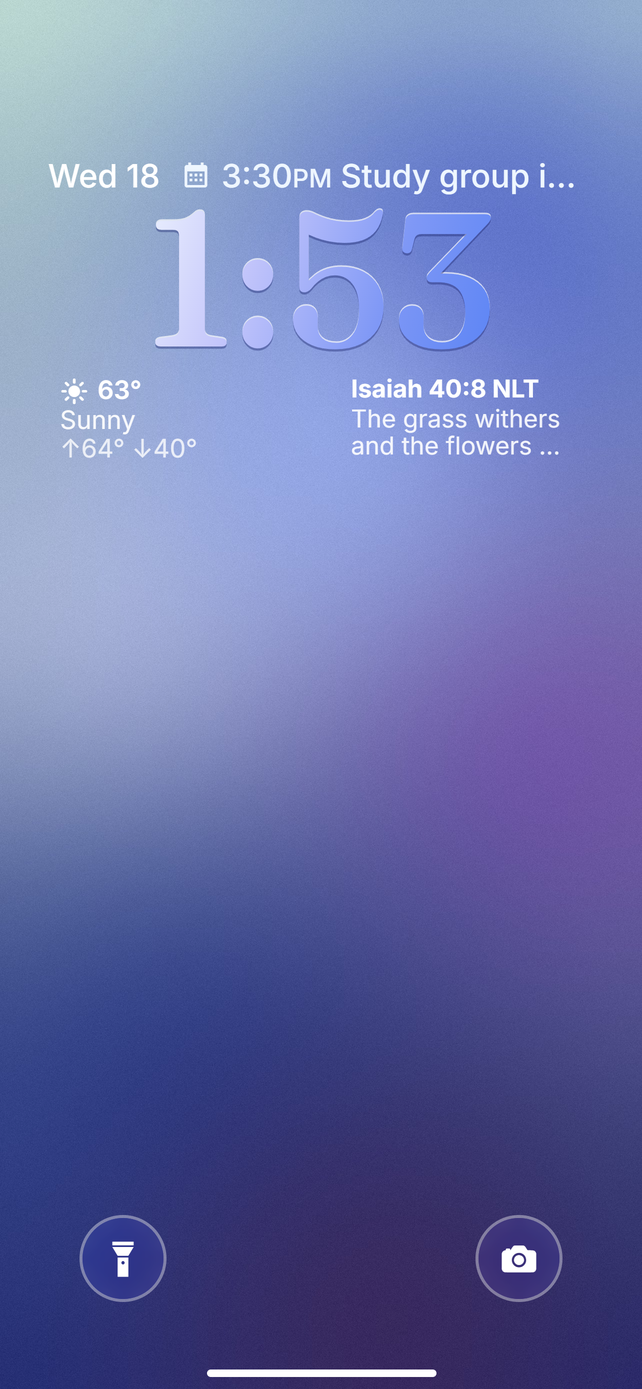
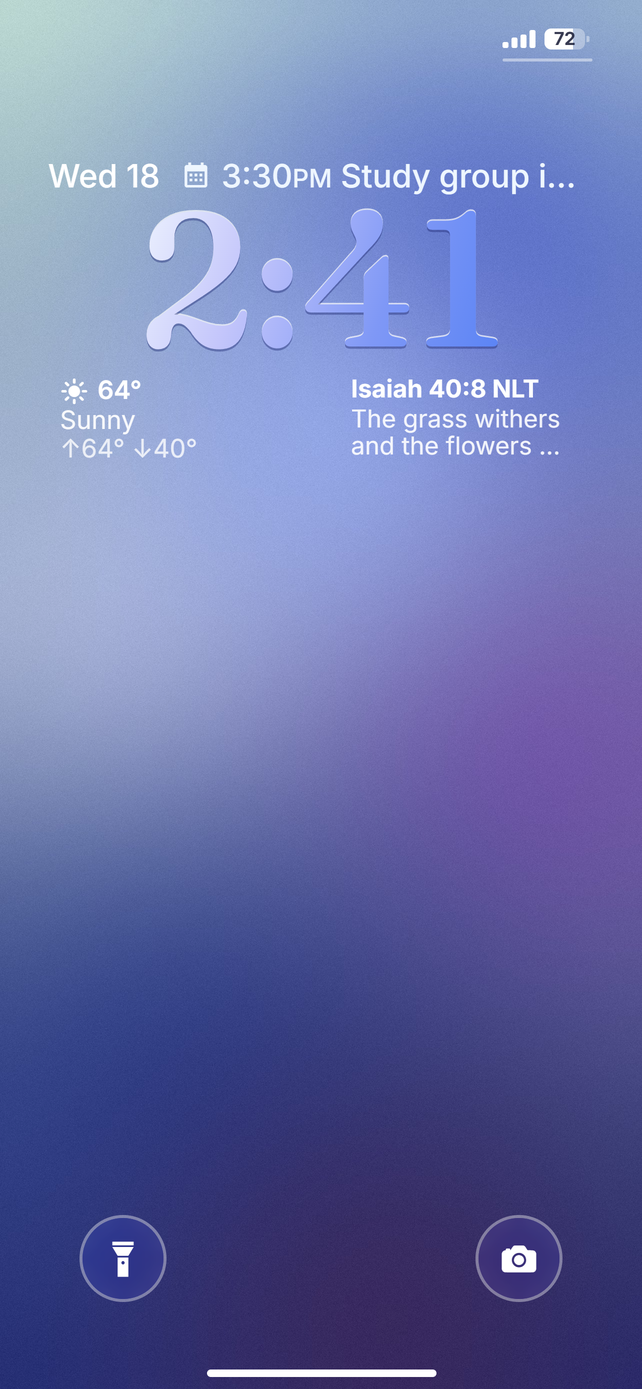
Add a lock screen status bar with live battery and Wi-Fi

Changed region(s): [[0.2181, 0.1238, 0.7788, 0.2786], [0.7788, 0.0, 0.9034, 0.0619]]

diff --git a/src/components/LockStatusBar.tsx b/src/components/LockStatusBar.tsx
@@ -1,0 +1,120 @@
+import { MaterialCommunityIcons } from '@expo/vector-icons';
+import { BatteryState, getBatteryLevelAsync, usePowerState } from 'expo-battery';
+import { NetworkStateType, useNetworkState } from 'expo-network';
+import { useEffect, useState } from 'react';
+import { Platform, StyleSheet, Text, View } from 'react-native';
+
+import { sans } from '../fonts';
+
+const BAR_HEIGHTS = [4.5, 7, 9.5, 12];
+
+// expo-battery's live hooks crash on web, so the web preview reads the level once.
+function useWebPowerState() {
+  const [batteryLevel, setBatteryLevel] = useState(-1);
+  useEffect(() => {
+    getBatteryLevelAsync().then(setBatteryLevel).catch(() => {});
+  }, []);
+  return { batteryLevel, batteryState: BatteryState.UNKNOWN, lowPowerMode: false };
+}
+
+const usePower = Platform.OS === 'web' ? useWebPowerState : usePowerState;
+
+/**
+ * The lock screen's own status bar: carrier, signal, Wi-Fi and battery.
+ * Battery and Wi-Fi are live. iOS doesn't let apps read the carrier name or
+ * signal strength, so the carrier comes from Settings and the bars stay full.
+ */
+export function LockStatusBar({ top, carrier }: { top: number; carrier: string }) {
+  const { batteryLevel, batteryState, lowPowerMode } = usePower();
+  const { type } = useNetworkState();
+
+  return (
+    <View style={[styles.bar, { top: top / 2 - 8 }]} pointerEvents="none">
+      <Text style={styles.carrier} numberOfLines={1}>
+        {carrier}
+      </Text>
+      <View>
+        <View style={styles.icons}>
+          <View style={styles.signal}>
+            {BAR_HEIGHTS.map((height) => (
+              <View key={height} style={[styles.signalBar, { height }]} />
+            ))}
+          </View>
+          {type === NetworkStateType.WIFI && <MaterialCommunityIcons name="wifi" size={21} color="white" />}
+          {batteryLevel >= 0 && (
+            <Battery
+              level={batteryLevel}
+              charging={batteryState === BatteryState.CHARGING}
+              lowPower={lowPowerMode}
+            />
+          )}
+        </View>
+        {/* The little Control Center grabber under the icons. */}
+        <View style={styles.grabber} />
+      </View>
+    </View>
+  );
+}
+
+function Battery({ level, charging, lowPower }: { level: number; charging: boolean; lowPower: boolean }) {
+  const percent = Math.round(level * 100);
+  const fill = charging ? '#34C759' : lowPower ? '#FFD60A' : percent <= 20 ? '#FF453A' : 'white';
+
+  return (
+    <View style={styles.battery}>
+      <View style={styles.batteryBody}>
+        <View style={[styles.batteryFill, { width: `${percent}%`, backgroundColor: fill }]} />
+        <Text style={styles.batteryText}>{percent}</Text>
+      </View>
+      <View style={styles.batteryTip} />
+    </View>
+  );
+}
+
+const styles = StyleSheet.create({
+  bar: {
+    position: 'absolute',
+    left: 44,
+    right: 33,
+    flexDirection: 'row',
+    justifyContent: 'space-between',
+    alignItems: 'flex-start',
+  },
+  carrier: { ...sans('500'), fontSize: 16.5, lineHeight: 21, color: 'white', flexShrink: 1 },
+  icons: { flexDirection: 'row', alignItems: 'center', gap: 6, height: 21 },
+  signal: { flexDirection: 'row', alignItems: 'flex-end', gap: 2, height: 12 },
+  signalBar: { width: 4, borderRadius: 1.2, backgroundColor: 'white' },
+  battery: { flexDirection: 'row', alignItems: 'center' },
+  batteryBody: {
+    width: 27,
+    height: 14,
+    borderRadius: 4.5,
+    overflow: 'hidden',
+    backgroundColor: 'rgba(255, 255, 255, 0.35)',
+    justifyContent: 'center',
+  },
+  batteryFill: { position: 'absolute', left: 0, top: 0, bottom: 0 },
+  batteryText: {
+    ...sans('700'),
+    fontSize: 12,
+    lineHeight: 14,
+    textAlign: 'center',
+    color: 'rgba(20, 24, 50, 0.85)',
+  },
+  batteryTip: {
+    width: 1.5,
+    height: 4.5,
+    marginLeft: 1,
+    borderTopRightRadius: 1,
+    borderBottomRightRadius: 1,
+    backgroundColor: 'rgba(255, 255, 255, 0.4)',
+  },
+  grabber: {
+    alignSelf: 'center',
+    width: 60,
+    height: 2.5,
+    borderRadius: 1.25,
+    marginTop: 2,
+    backgroundColor: 'rgba(255, 255, 255, 0.45)',
+  },
+});

diff --git a/src/LockScreen.tsx b/src/LockScreen.tsx
@@ -5,6 +5,7 @@ import { useSafeAreaInsets } from 'react-native-safe-area-context';
 
 import { Clock } from './components/Clock';
 import { DateLine } from './components/DateLine';
+import { LockStatusBar } from './components/LockStatusBar';
 import { EdgeNote, NoteWidget } from './components/Notifications';
 import { CameraButton, FlashlightButton } from './components/QuickButtons';
 import { SettingsSheet } from './components/SettingsSheet';
@@ -50,6 +51,7 @@ export function LockScreen() {
       {/* Long-press anywhere opens Settings, like customizing the real lock screen. */}
       <Pressable style={styles.screen} onLongPress={() => setSettingsOpen(true)} delayLongPress={600}>
         <Image source={wallpaper} resizeMode="cover" style={styles.wallpaper} />
+        {settings.statusBar && <LockStatusBar top={top} carrier={settings.carrier} />}
         <View style={{ paddingTop: top + 57 }}>
           <DateLine now={now} note={noteAt('event')} onNotePress={dismissNote} />
           <Clock now={now} />

diff --git a/src/components/SettingsSheet.tsx b/src/components/SettingsSheet.tsx
@@ -134,6 +134,18 @@ export function SettingsSheet({ visible, onClose }: { visible: boolean; onClose:
 
           <Section title="Display">
             <Toggle
+              label="Show status bar"
+              value={settings.statusBar}
+              onChange={(statusBar) => update({ statusBar })}
+            />
+            {settings.statusBar && (
+              <Field
+                placeholder="Carrier name, e.g. T-Mobile"
+                value={settings.carrier}
+                onChangeText={(carrier) => update({ carrier })}
+              />
+            )}
+            <Toggle
               label="Keep screen awake"
               value={settings.keepAwake}
               onChange={(keepAwake) => update({ keepAwake })}

diff --git a/src/config.ts b/src/config.ts
@@ -20,6 +20,8 @@ export const defaults = {
   placement: 'edge' as Placement,
   demoNotifications: false, // sample notifications, handy for picking a placement
   keepAwake: true, // stop the screen dimming and auto-locking while the app is open
+  statusBar: true, // carrier, signal, Wi-Fi and battery along the top
+  carrier: '', // iOS doesn't tell apps the carrier name, so type it in Settings
 };
 
 export type Settings = typeof defaults;

diff --git a/README.md b/README.md
@@ -6,6 +6,7 @@ An iOS-style lock screen as an Expo (React Native + TypeScript) app:
 - the date and next calendar event
 - a big live glassy clock
 - live weather for your city and a Bible verse widget
+- a status bar with live battery and Wi-Fi
 - flashlight and camera buttons
 - Pushover notifications, shown up the left edge, in the weather widget's spot, or in the top line
 
@@ -55,6 +56,7 @@ Press and hold anywhere on the lock screen to open **Settings**. There you can:
 - Set the **verse** reference and text.
 - Set the **weather city**. Type a name and tap **Set**; it's looked up with Open-Meteo's free geocoder.
 - Pick where **Pushover notifications** show, and turn sample notifications on to preview them.
+- Show or hide the **status bar** along the top, and type your **carrier name** for it. Battery and Wi-Fi are live. iOS doesn't let apps read the carrier name or signal strength, so you type the carrier yourself and the signal bars always show full.
 - Turn **Keep screen awake** on or off. It's on by default and stops the phone dimming and auto-locking while the app is open. It's best used on a charger; iPhones with OLED screens can get burn-in if one static image shows for hours every day.
 
 Settings are saved on the phone only, never in the code. The defaults for a fresh install are in `src/config.ts`.
